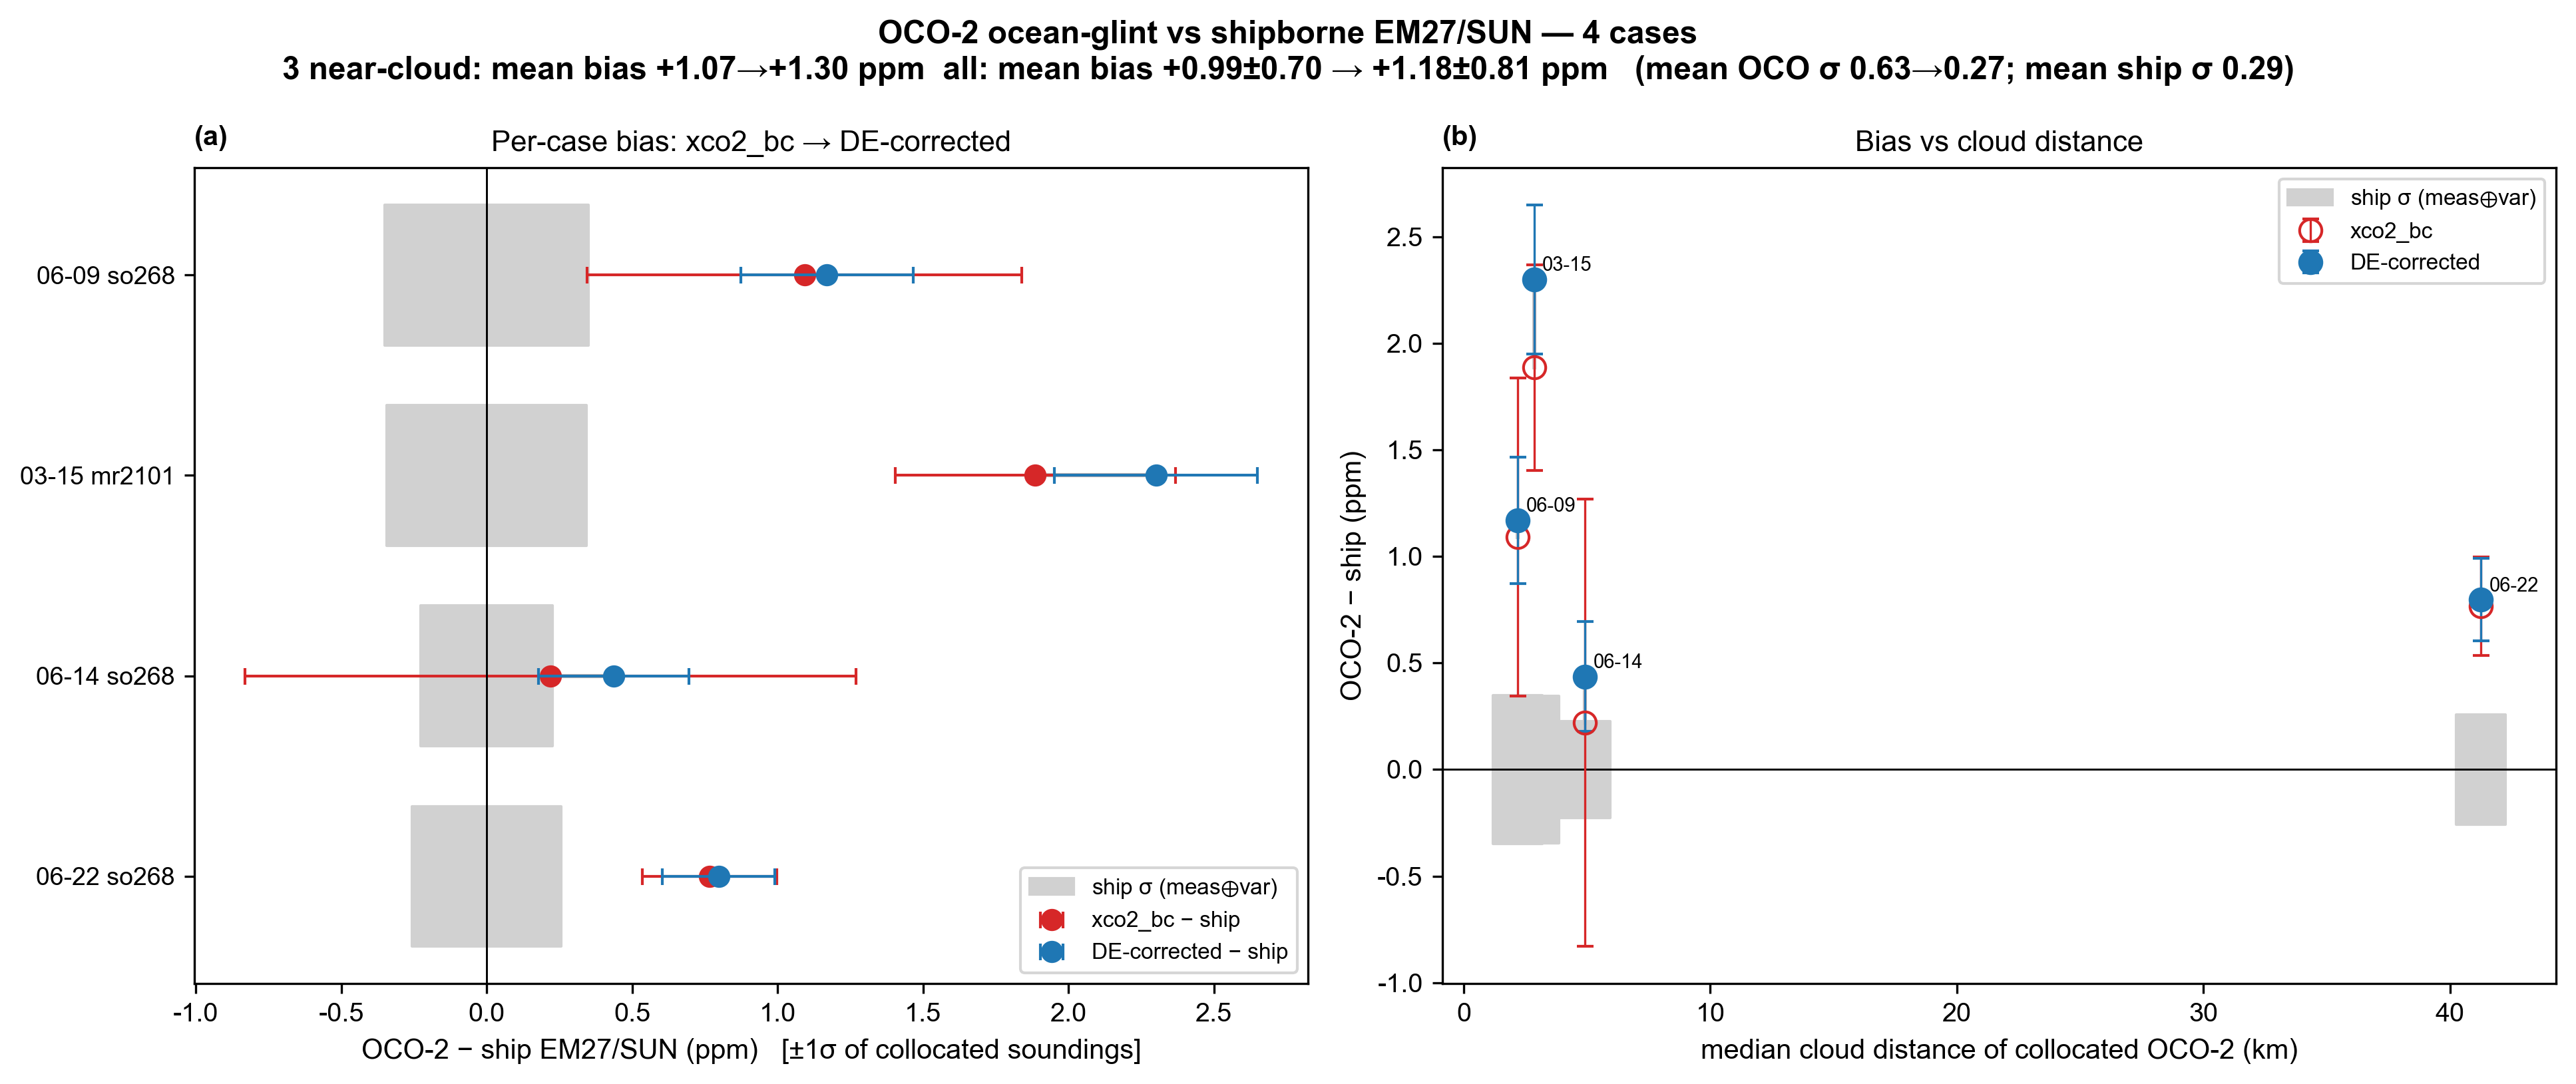
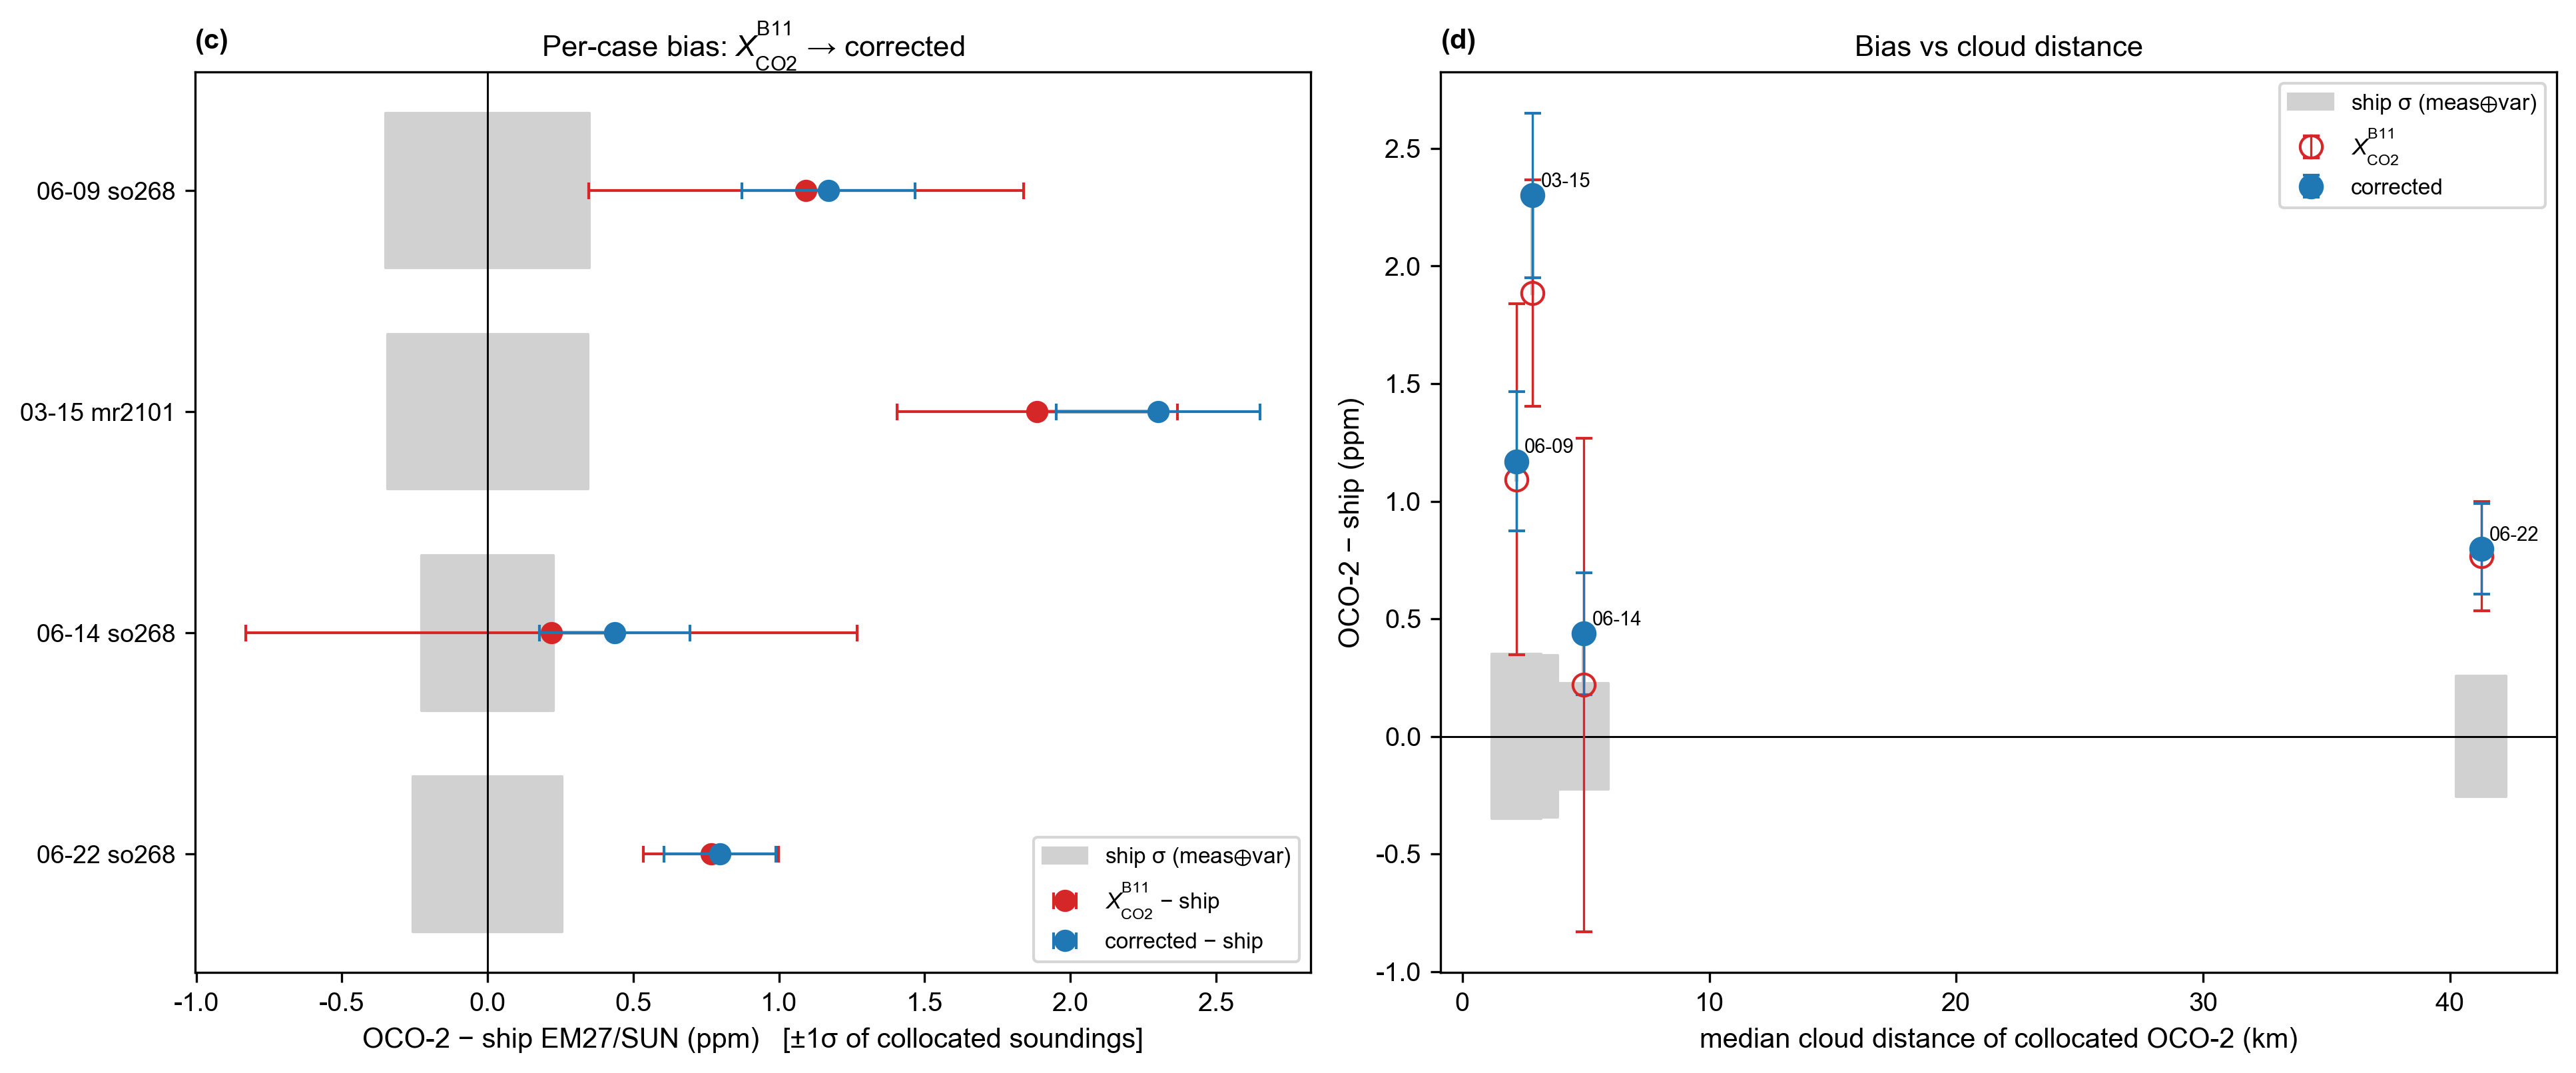
Fig 10: continuous panel letters (ATom a/b, ship c/d), suptitles removed
- Producers patched with panel_offset/suptitle/out_pdf kwargs + B11
  legend notation; new make_ocean_validation_figure.py regenerates
  fig10a/b from the production CSVs (pdf added)
- Suptitle numbers moved into the 4.6 draft results text, including the
  honest wrinkles (ATom signed mean bias unchanged +0.19->+0.20 ppm -
  the gain is scatter; ship all-case offset +0.99->+1.18 ppm,
  reference-scale dominated); caption rewritten for the a-d layout
- Plan changelog 2026-07-22z + README updated

diff --git a/manuscript/scripts/make_ocean_validation_figure.py b/manuscript/scripts/make_ocean_validation_figure.py
@@ -1,0 +1,78 @@
+#!/usr/bin/env python3
+"""Manuscript Fig. 10a/10b — ocean validation summaries (Results 4.6).
+
+Regenerates the ATom and ship summary figures from the production-tree CSVs
+with CONTINUOUS panel letters across the two-file composite — ATom (a)/(b),
+ship (c)/(d) — and the stat-carrying suptitles removed (2026-07-23: the
+suptitle numbers live in the §4.6 draft results text of the flow plan; the
+manuscript caption rule forbids them in figures). Legends use the
+X_CO2^B11 notation (the producers' next-re-render obligation, §6).
+
+Reuses the producers' own plotting functions (patched 2026-07-23 with
+panel_offset / suptitle / out_pdf kwargs), so the report-tree versions and
+the manuscript versions cannot drift apart.
+
+Inputs: <TAG>/atom/atom_pseudo_column_results.csv
+        <TAG>/ship/ship_comparison_summary.csv
+Output: manuscript/figures/fig10a_atom_summary.{png,pdf}
+        manuscript/figures/fig10b_ship_summary.{png,pdf}
+Also prints the suptitle-equivalent summary numbers for the draft text.
+"""
+from __future__ import annotations
+
+import importlib.util
+import sys
+from pathlib import Path
+
+import pandas as pd
+
+REPO = Path(__file__).resolve().parents[2]
+sys.path.insert(0, str(REPO / "workspace"))  # plot_style, ak_harmonize
+TAG = (REPO / "results" / "model_comparison" / "deep_ensemble"
+       / "de_beta_nll_prof_reg_foldpca_o05l15_m5")
+OUT = REPO / "manuscript" / "figures"
+
+
+def _load(name: str, path: Path):
+    spec = importlib.util.spec_from_file_location(name, path)
+    mod = importlib.util.module_from_spec(spec)
+    spec.loader.exec_module(mod)
+    return mod
+
+
+def main() -> None:
+    atom = _load("atom_pseudo_column",
+                 REPO / "workspace" / "ATom_analysis" / "atom_pseudo_column.py")
+    ship = _load("plot_ship_summary",
+                 REPO / "workspace" / "Ship_analysis" / "plot_ship_summary.py")
+    atom.MODEL_LABEL = "corrected"
+    ship.MODEL_LABEL = "corrected"
+
+    OUT.mkdir(parents=True, exist_ok=True)
+    da = pd.read_csv(TAG / "atom" / "atom_pseudo_column_results.csv")
+    atom.make_summary_plot(da, OUT / "fig10a_atom_summary.png",
+                           panel_offset=0, suptitle=False,
+                           out_pdf=OUT / "fig10a_atom_summary.pdf")
+    ds = pd.read_csv(TAG / "ship" / "ship_comparison_summary.csv")
+    ship.make_summary_plot(ds, OUT / "fig10b_ship_summary.png",
+                           panel_offset=2, suptitle=False,
+                           out_pdf=OUT / "fig10b_ship_summary.pdf")
+
+    # summary numbers formerly carried by the suptitles -> draft text
+    nca = da[da.cld_med <= 10]
+    print(f"\nATom: {len(da)} legs, {len(nca)} near-cloud; near-cloud mean "
+          f"bias {nca.resid_bc.mean():+.2f}±{nca.resid_bc.std():.2f} → "
+          f"{nca.resid_corr.mean():+.2f}±{nca.resid_corr.std():.2f} ppm; "
+          f"pseudo-column σ {da.atom_ak_sd.min():.2f}–{da.atom_ak_sd.max():.2f}")
+    ncs = ds[ds.cld_med <= 10]
+    print(f"Ship: {len(ds)} cases, {len(ncs)} near-cloud "
+          f"(near-cloud bias {ncs.resid_bc.mean():+.2f}→"
+          f"{ncs.resid_corr.mean():+.2f} ppm); all-case mean bias "
+          f"{ds.resid_bc.mean():+.2f}±{ds.resid_bc.std():.2f} → "
+          f"{ds.resid_corr.mean():+.2f}±{ds.resid_corr.std():.2f} ppm; "
+          f"mean OCO σ {ds.oco_bc_sd.mean():.2f}→{ds.oco_corr_sd.mean():.2f}; "
+          f"mean ship σ {ds.ship_err.mean():.2f}")
+
+
+if __name__ == "__main__":
+    main()

diff --git a/workspace/Ship_analysis/plot_ship_summary.py b/workspace/Ship_analysis/plot_ship_summary.py
@@ -25,7 +25,7 @@ from plot_ship_comparison import load_ship, haversine_km, TABS  # noqa: E402
 ROOT_WORKSPACE = os.path.abspath(os.path.join(HERE, ".."))
 if ROOT_WORKSPACE not in sys.path:
     sys.path.insert(0, ROOT_WORKSPACE)
-from plot_style import apply_manuscript_style, panel_label  # noqa: E402
+from plot_style import XCO2_BC_LABEL, apply_manuscript_style, panel_label  # noqa: E402
 
 REPO = os.path.abspath(os.path.join(HERE, "..", ".."))
 DEFAULT_OUT = os.path.join(REPO, "results/model_comparison/deep_ensemble/"
@@ -81,7 +81,8 @@ def case_stats(date, ship, lonr, latr, out_base, radius_km, twin_s):
     )
 
 
-def make_summary_plot(df, out_png):
+def make_summary_plot(df, out_png, panel_offset=0, suptitle=True,
+                      out_pdf=None):
     d = df.sort_values("cld_med").reset_index(drop=True)
     y = np.arange(len(d))
     lbl = [f"{r.date[5:]} {r.ship}" for r in d.itertuples()]
@@ -96,14 +97,16 @@ def make_summary_plot(df, out_png):
     for yi, rb, rc in zip(y, d.resid_bc, d.resid_corr):
         ax1.plot([rb, rc], [yi, yi], "-", color="0.75", zorder=1)
     ax1.errorbar(d.resid_bc, y, xerr=d.oco_bc_sd, fmt="o", ms=7, color=RED, ecolor=RED,
-                 elinewidth=1, capsize=3, zorder=2, label="xco2_bc − ship")
+                 elinewidth=1, capsize=3, zorder=2,
+                 label=f"{XCO2_BC_LABEL} − ship")
     ax1.errorbar(d.resid_corr, y, xerr=d.oco_corr_sd, fmt="o", ms=7, color=BLUE, ecolor=BLUE,
                  elinewidth=1, capsize=3, zorder=3, label=f"{MODEL_LABEL} − ship")
     ax1.axvline(0, color="k", lw=0.7)
     ax1.set_yticks(y); ax1.set_yticklabels(lbl, fontsize=9); ax1.invert_yaxis()
     ax1.set_xlabel("OCO-2 − ship EM27/SUN (ppm)   [±1σ of collocated soundings]")
-    ax1.set_title(f"Per-case bias: xco2_bc → {MODEL_LABEL}"); ax1.legend(fontsize=8)
-    panel_label(ax1, "(a)")
+    ax1.set_title(f"Per-case bias: {XCO2_BC_LABEL} → {MODEL_LABEL}")
+    ax1.legend(fontsize=8)
+    panel_label(ax1, f"({chr(ord('a') + panel_offset)})")
 
     # (B) bias vs cloud distance, yerr = 1σ of the collocated OCO-2 soundings.
     # Grey band = ship measured XCO2 uncertainty about the (zero) reference, per case.
@@ -113,7 +116,7 @@ def make_summary_plot(df, out_png):
         ax2.fill_between([r.cld_med - xw, r.cld_med + xw], -r.ship_err, r.ship_err,
                          color=GREY, zorder=0, label=r"ship σ (meas$\oplus$var)" if k == 0 else None)
     ax2.errorbar(d.cld_med, d.resid_bc, yerr=d.oco_bc_sd, fmt="o", color=RED, mfc="none",
-                 ms=8, elinewidth=0.8, capsize=3, label="xco2_bc")
+                 ms=8, elinewidth=0.8, capsize=3, label=XCO2_BC_LABEL)
     ax2.errorbar(d.cld_med, d.resid_corr, yerr=d.oco_corr_sd, fmt="o", color=BLUE,
                  ms=8, elinewidth=0.8, capsize=3, label=MODEL_LABEL)
     for r in d.itertuples():
@@ -123,18 +126,22 @@ def make_summary_plot(df, out_png):
     ax2.set_xlabel("median cloud distance of collocated OCO-2 (km)")
     ax2.set_ylabel("OCO-2 − ship (ppm)"); ax2.set_title("Bias vs cloud distance")
     ax2.legend(fontsize=8)
-    panel_label(ax2, "(b)")
+    panel_label(ax2, f"({chr(ord('a') + panel_offset + 1)})")
 
     nc = d[d.cld_med <= 10]
-    sub = f"{len(nc)} near-cloud: mean bias {nc.resid_bc.mean():+.2f}→{nc.resid_corr.mean():+.2f} ppm  " if len(nc) else ""
-    fig.suptitle(
-        f"OCO-2 ocean-glint vs shipborne EM27/SUN — {len(d)} cases\n"
-        f"{sub}all: mean bias {d.resid_bc.mean():+.2f}±{d.resid_bc.std():.2f} → "
-        f"{d.resid_corr.mean():+.2f}±{d.resid_corr.std():.2f} ppm   "
-        f"(mean OCO σ {d.oco_bc_sd.mean():.2f}→{d.oco_corr_sd.mean():.2f}; "
-        f"mean ship σ {d.ship_err.mean():.2f})",
-        fontweight="bold")
-    fig.tight_layout(); fig.savefig(out_png); plt.close(fig)
+    if suptitle:
+        sub = f"{len(nc)} near-cloud: mean bias {nc.resid_bc.mean():+.2f}→{nc.resid_corr.mean():+.2f} ppm  " if len(nc) else ""
+        fig.suptitle(
+            f"OCO-2 ocean-glint vs shipborne EM27/SUN — {len(d)} cases\n"
+            f"{sub}all: mean bias {d.resid_bc.mean():+.2f}±{d.resid_bc.std():.2f} → "
+            f"{d.resid_corr.mean():+.2f}±{d.resid_corr.std():.2f} ppm   "
+            f"(mean OCO σ {d.oco_bc_sd.mean():.2f}→{d.oco_corr_sd.mean():.2f}; "
+            f"mean ship σ {d.ship_err.mean():.2f})",
+            fontweight="bold")
+    fig.tight_layout(); fig.savefig(out_png)
+    if out_pdf:
+        fig.savefig(out_pdf)
+    plt.close(fig)
     print(f"wrote {out_png}")
 
 

diff --git a/workspace/ATom_analysis/atom_pseudo_column.py b/workspace/ATom_analysis/atom_pseudo_column.py
@@ -32,7 +32,7 @@ HERE = os.path.dirname(os.path.abspath(__file__))
 sys.path.insert(0, HERE)                       # for ak_harmonize (workspace/)
 sys.path.insert(0, os.path.join(HERE, ".."))
 from ak_harmonize import operator_from_dataframe, _haversine_km  # noqa: E402
-from plot_style import apply_manuscript_style, panel_label       # noqa: E402
+from plot_style import XCO2_BC_LABEL, apply_manuscript_style, panel_label  # noqa: E402
 
 REPO = os.path.abspath(os.path.join(HERE, "..", ".."))
 CSV_DIR = os.path.join(REPO, "results", "csv_collection")
@@ -173,7 +173,8 @@ def process(date, oco, atom, radius_km, twin_s, min_n, strat_prior_sd=1.0):
     return rows
 
 
-def make_summary_plot(df, out_png):
+def make_summary_plot(df, out_png, panel_offset=0, suptitle=True,
+                      out_pdf=None):
     """Two-panel bias summary. Residual error bars = the collocated OCO-2 sounding
     spread (per leg). Each leg's OWN ATom pseudo-column-average ±1σ is drawn as a
     grey bar around the reference (0) — individual per leg, not a pooled mean."""
@@ -195,23 +196,24 @@ def make_summary_plot(df, out_png):
     for yi, rb, rc in zip(y, d.resid_bc, d.resid_corr):
         ax1.plot([rb, rc], [yi, yi], "-", color="0.75", zorder=1)
     ax1.errorbar(d.resid_bc, y, xerr=d.oco_bc_sd, fmt="o", ms=6, color=RED, ecolor=RED,
-                 elinewidth=1, capsize=2, zorder=2, label="xco2_bc − ATom")
+                 elinewidth=1, capsize=2, zorder=2,
+                 label=f"{XCO2_BC_LABEL} − ATom")
     ax1.errorbar(d.resid_corr, y, xerr=d.oco_corr_sd, fmt="o", ms=6, color=BLUE, ecolor=BLUE,
                  elinewidth=1, capsize=2, zorder=3, label=f"{MODEL_LABEL} − ATom")
     ax1.axvline(0, color="k", lw=0.7)
     ax1.set_yticks(y); ax1.set_yticklabels(lbl, fontsize=8); ax1.invert_yaxis()
     ax1.set_xlabel("OCO-2 − ATom pseudo-column (ppm)   [error bars = OCO sounding spread]")
-    ax1.set_title(f"Per-leg bias: xco2_bc → {MODEL_LABEL}")
+    ax1.set_title(f"Per-leg bias: {XCO2_BC_LABEL} → {MODEL_LABEL}")
     ax1.legend(handles=[Patch(facecolor=GREY, alpha=0.25, label="ATom pseudo-column ±1σ (per leg)"),
                         *ax1.get_legend_handles_labels()[0]], fontsize=7)
-    panel_label(ax1, "(a)")
+    panel_label(ax1, f"({chr(ord('a') + panel_offset)})")
 
     # (B) bias vs cloud distance; per-leg grey bar at each x = that leg's pseudo-column ±1σ
     ax2.errorbar(d.cld_med, np.zeros(len(d)), yerr=sd, fmt="none", ecolor=GREY,
                  elinewidth=6, alpha=0.3, capsize=0, zorder=0)
     ax2.axhline(0, color="k", lw=0.7)
     ax2.errorbar(d.cld_med, d.resid_bc, yerr=d.oco_bc_sd, fmt="o", color=RED, mfc="none",
-                 ms=7, elinewidth=0.8, capsize=2, label="xco2_bc")
+                 ms=7, elinewidth=0.8, capsize=2, label=XCO2_BC_LABEL)
     ax2.errorbar(d.cld_med, d.resid_corr, yerr=d.oco_corr_sd, fmt="o", color=BLUE,
                  ms=7, elinewidth=0.8, capsize=2, label=MODEL_LABEL)
     for r in d.itertuples():
@@ -220,17 +222,21 @@ def make_summary_plot(df, out_png):
     ax2.set_ylabel("OCO-2 − ATom (ppm)"); ax2.set_title("Bias vs cloud distance")
     ax2.legend(handles=[Patch(facecolor=GREY, alpha=0.3, label="ATom pseudo-column ±1σ (per leg)"),
                         *ax2.get_legend_handles_labels()[0]], fontsize=8)
-    panel_label(ax2, "(b)")
+    panel_label(ax2, f"({chr(ord('a') + panel_offset + 1)})")
 
     nc = d[d.cld_med <= 10]
-    fig.suptitle(
-        f"ATom pseudo-column vs OCO-2 ocean-glint (AK-harmonized) — "
-        f"{len(d)} legs, {len(nc)} near-cloud\n"
-        f"near-cloud mean bias {nc.resid_bc.mean():+.2f}±{nc.resid_bc.std():.2f} → "
-        f"{nc.resid_corr.mean():+.2f}±{nc.resid_corr.std():.2f} ppm  "
-        f"(±1σ across legs;  pseudo-column σ {sd.min():.2f}–{sd.max():.2f} per leg)",
-        fontweight="bold")
-    fig.tight_layout(); fig.savefig(out_png); plt.close(fig)
+    if suptitle:
+        fig.suptitle(
+            f"ATom pseudo-column vs OCO-2 ocean-glint (AK-harmonized) — "
+            f"{len(d)} legs, {len(nc)} near-cloud\n"
+            f"near-cloud mean bias {nc.resid_bc.mean():+.2f}±{nc.resid_bc.std():.2f} → "
+            f"{nc.resid_corr.mean():+.2f}±{nc.resid_corr.std():.2f} ppm  "
+            f"(±1σ across legs;  pseudo-column σ {sd.min():.2f}–{sd.max():.2f} per leg)",
+            fontweight="bold")
+    fig.tight_layout(); fig.savefig(out_png)
+    if out_pdf:
+        fig.savefig(out_pdf)
+    plt.close(fig)
     print(f"wrote {out_png}")
 
 

diff --git a/log/MANUSCRIPT_FLOW_PLAN.md b/log/MANUSCRIPT_FLOW_PLAN.md
@@ -202,6 +202,15 @@ station-day unit, metric + bootstrap definitions incl. the former
 Fig. 8a LaTeX block) consolidated into Methods §3.5; §4.3 opens its
 baseline table with a Sect. 3.5 pointer; §4.4 item 1 reduced to a
 one-sentence recap — no Results section now depends on a later one.  
+**Updated:** 2026-07-22z — Fig. 10 regenerated with continuous panel
+letters (ATom a/b, ship c/d; duplicate-letter clash resolved),
+suptitles removed (numbers moved to the §4.6 draft results text —
+including two honest wrinkles: ATom near-cloud signed mean bias
+unchanged +0.19→+0.20 ppm, the gain is scatter/|residual|; ship
+all-case mean offset +0.99→+1.18 ppm, reference-scale dominated), B11
+notation adopted. New `make_ocean_validation_figure.py` drives the
+patched producers (panel_offset/suptitle/out_pdf kwargs) on the
+production CSVs.  
 **Target journal:** *Atmospheric Measurement Techniques* (AMT)  
 **Purpose:** Convert the project evidence ledger into a conventional,
 reviewer-readable manuscript flow. This document governs narrative order; the
@@ -1099,34 +1108,49 @@ reference-scale caveats.
 
 **Draft results text (moved out of the Fig. 10 caption, 2026-07-22h):**
 
-> Near-cloud ATom legs improve in median |residual| from 0.53 to 0.45 ppm,
-> while the far-cloud date (9 October 2017) is a negative control that the
-> correction leaves nearly unchanged (Fig. 10a). Against the shipborne
-> spectrometers the correction collapses footprint scatter
-> (σ 0.63 → 0.27 ppm) without moving the clear-sky control day
-> (22 June 2019); the residual ~+1 ppm absolute offset is dominated by
-> reference-scale differences, not created by the correction (Fig. 10b).
+> Across the 17 ATom legs (14 near-cloud), the near-cloud improvement is
+> a scatter reduction, not an offset shift: the median |residual| falls
+> from 0.53 to 0.45 ppm and the across-leg spread from ±0.72 to
+> ±0.58 ppm, while the signed mean bias is essentially unchanged
+> (+0.19 → +0.20 ppm, well within the per-leg pseudo-column σ of
+> 0.10–0.19 ppm); the far-cloud date (9 October 2017) is a negative
+> control that the correction leaves nearly unchanged (Fig. 10a, b).
+> Against the shipborne spectrometers (4 cases, 3 near-cloud) the
+> correction collapses footprint scatter (mean σ 0.63 → 0.27 ppm,
+> against a mean ship reference σ of 0.29 ppm) without moving the
+> clear-sky control day (22 June 2019); the residual absolute offset
+> (all-case mean +0.99 ± 0.70 before, +1.18 ± 0.81 ppm after) is
+> dominated by reference-scale differences, not created by the
+> correction (Fig. 10c, d).
 
 **Display items:**
 
 - **Fig. 10** — ATom + shipborne EM27/SUN summary with the far-cloud/clear-day
-  negative controls. Copies exist:
-  `manuscript/figures/fig10a_atom_summary` and
-  `manuscript/figures/fig10b_ship_summary` (from the production fold-PCA
-  tree `<TAG>/atom/atom_pseudo_column_summary.png` and
-  `<TAG>/ship/ship_comparison_summary.png`).
+  negative controls. REGENERATED 2026-07-23 by
+  `manuscript/scripts/make_ocean_validation_figure.py` (drives the
+  producers' own plotting functions on the production-tree CSVs):
+  CONTINUOUS panel letters across the composite — ATom (a)/(b), ship
+  (c)/(d) — resolving the duplicate-letter clash of the copied report
+  figures; stat-carrying suptitles REMOVED (numbers moved to the draft
+  results text below, per the caption rule); legends/titles use
+  X_CO2^B11. Files: `fig10a_atom_summary`, `fig10b_ship_summary`
+  (png+pdf).
 - No main-text table; leg/case inventories and residuals are Appendix D
   (Tables D5–D6).
 
 **Draft caption:**
 
-> **Figure 10.** Independent ocean corroboration. (a) ATom aircraft
+> **Figure 10.** Independent ocean corroboration. (a, b) ATom aircraft
 > pseudo-column comparison (8 dates, 17 collocated legs, AK-smoothed; the
 > unmeasured stratosphere is filled with the OCO-2 prior so it cancels in
 > the comparison), including the far-cloud negative-control date
-> (9 October 2017). (b) Shipborne EM27/SUN comparison (R/V Sonne MORE-2
-> and R/V Mirai MR21-01; 100 km / ±2 h), including the clear-sky control
-> day (22 June 2019).
+> (9 October 2017): per-leg signed bias before and after correction, and
+> the same residuals against median cloud distance; grey bands mark each
+> leg's own pseudo-column ±1σ. (c, d) Shipborne EM27/SUN comparison
+> (R/V Sonne MORE-2 and R/V Mirai MR21-01; 100 km / ±2 h), including the
+> clear-sky control day (22 June 2019), in the same two views; grey bands
+> mark the ship reference uncertainty (measurement ⊕ within-window
+> variability).
 
 **Panel assembly, Fig. 10 (LaTeX draft):**
 
@@ -1140,9 +1164,9 @@ reference-scale caveats.
 \end{figure}
 ```
 
-Panel letters: both are copied report figures without (a)/(b) tags —
-add letters when the panels are regenerated or composite them via a
-small `manuscript/scripts/` wrapper.
+Panel letters: native and continuous since 2026-07-23 — ATom carries
+(a)/(b), ship carries (c)/(d) from the producers' panel_offset kwarg;
+nothing to retag when compositing.
 
 #### 4.7 Plume preservation and correction safety
 
@@ -1956,7 +1980,8 @@ in `plot_style.py`, macros in `supplement.tex` — never retype):**
 
 Applied 2026-07-23 to fig03/fig03alt/figB2/fig05 (+ ocean companion).
 The copied report figures that display XCO2 axes (fig07, fig09,
-fig10a/b, figD2–D4, figE2) still carry generic labels — adopt the
+figD2–D4, figE2) still carry generic labels (fig10a/b adopted the
+superscripts at their 2026-07-23 re-render) — adopt the
 superscripts when their producers are next re-rendered (ATom/ship
 producers live in workspace/ATom_analysis + Ship_analysis).
 

diff --git a/manuscript/README.md b/manuscript/README.md
@@ -26,7 +26,7 @@ build intermediates stay ignored — see the manuscript block in `.gitignore`).
   generator are COPIES from the analysis trees (sources and status in the
   Display items blocks of `log/MANUSCRIPT_FLOW_PLAN.md`): figF1_case_tasman
   (Appendix F Tasman showcase, Times-italic l′ — final convention),
-  fig07 (dumbbell), fig09 (smoother), fig10a/fig10b (ATom/ship),
+  fig07 (dumbbell), fig09 (smoother),
   fig11a (Westar), and the appendix copies staged
   2026-07-22o — figD2a/figD2b (QF0/QF1 TCCON), figD3 (r50), figD4
   (station summary), figE2a/figE2b (far-cloud/clear-day controls), figE3
@@ -80,6 +80,9 @@ build intermediates stay ignored — see the manuscript block in `.gitignore`).
   - `make_significance_panel.py` → fig08 (Results 4.4 significance figure
     — split from the former two-panel Fig. 7, 2026-07-23; Fig. 7 is the
     copied station-day dumbbell `fig07_tccon_dumbbell`)
+  - `make_ocean_validation_figure.py` → fig10a/fig10b (Results 4.6 ATom +
+    ship summaries; drives the patched producers on the production CSVs —
+    continuous panel letters a–d, no suptitles, B11 notation)
   - `make_k1_contrast_figure.py` → fig11b (Results 4.7 plume-safety panel;
     11a is the copied Westar transect `fig11a_westar_transect`)
   - `make_cv_design_figure.py` → figC3b (Appendix C CV-design schematic;